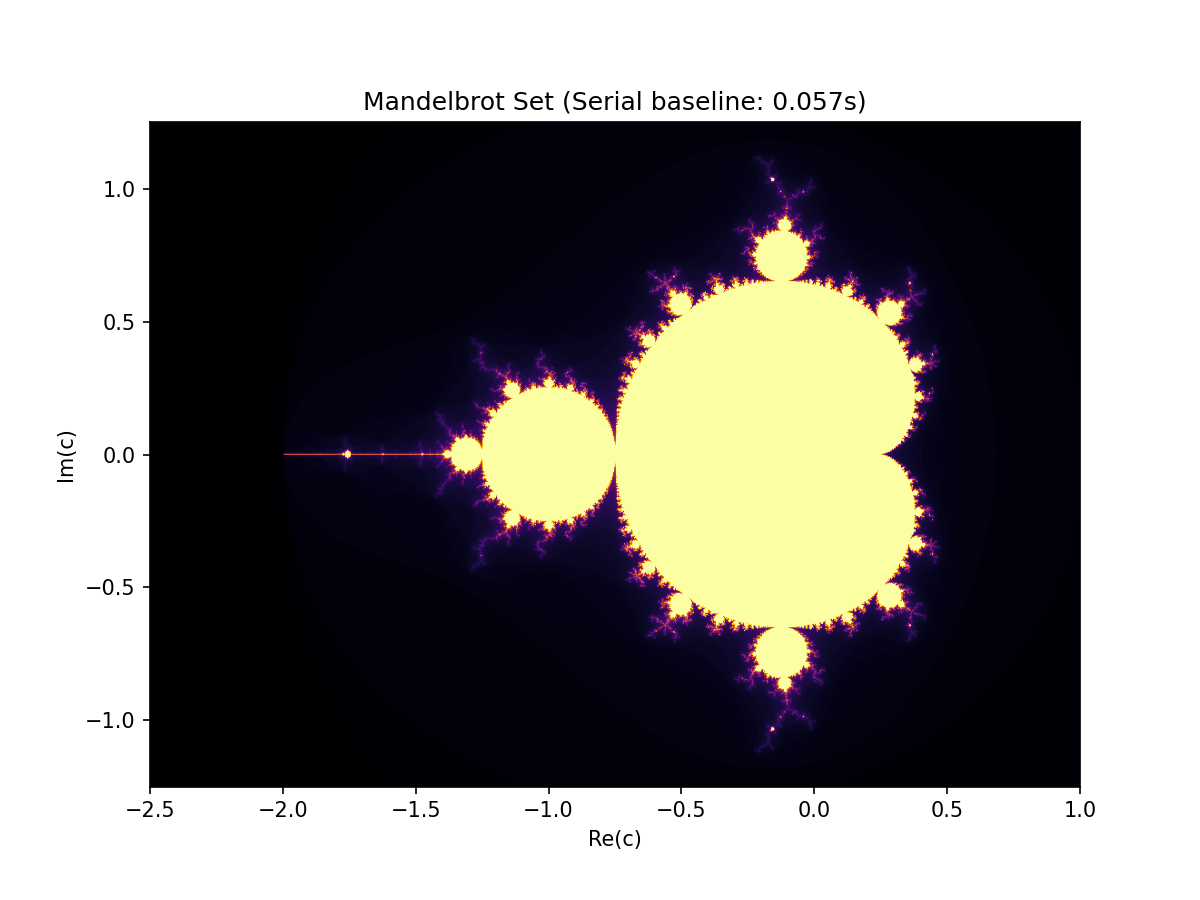
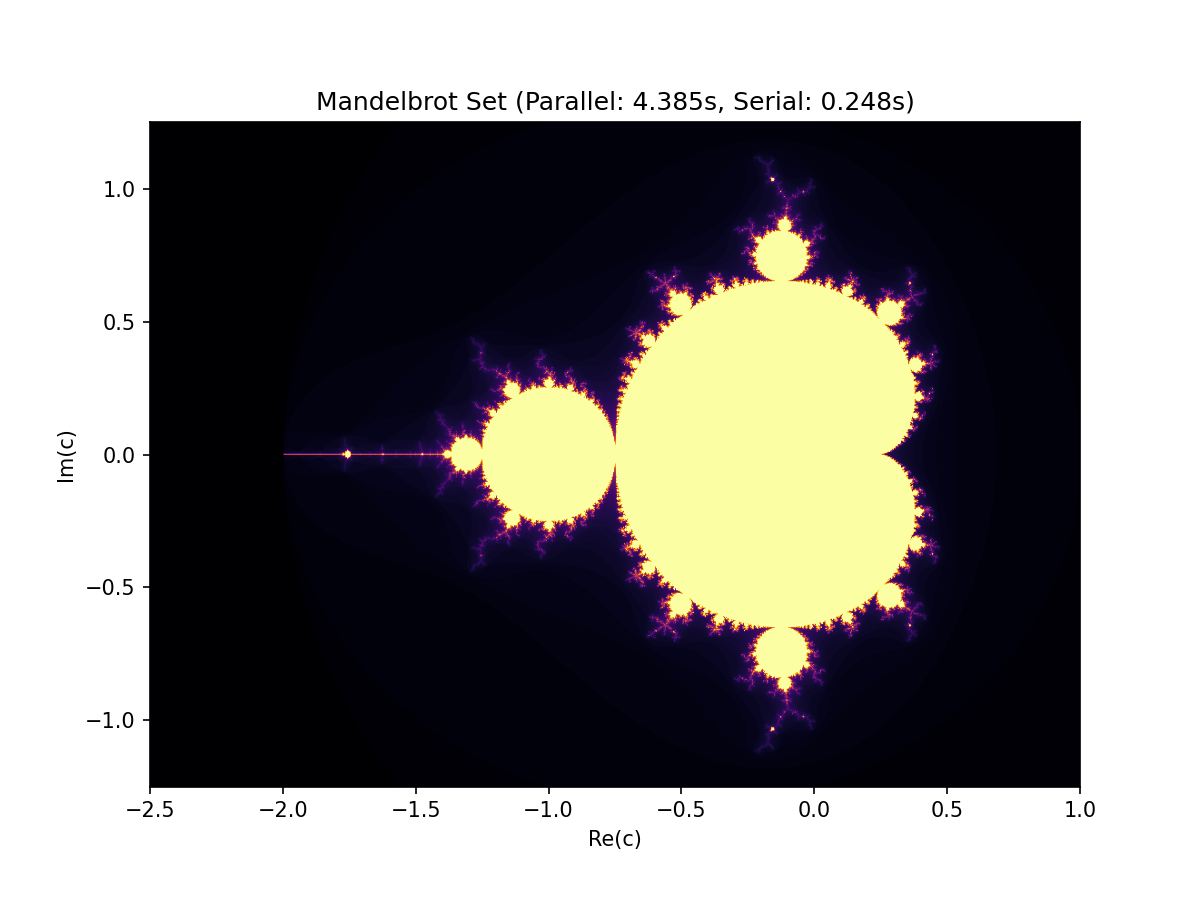
L08

Changed region(s): [[0.2467, 0.0933, 0.7708, 0.1244]]

diff --git a/L04 M1.py b/L04 M1.py
@@ -4,6 +4,12 @@ from multiprocessing import Pool
 import time, os, statistics, matplotlib.pyplot as plt
 from pathlib import Path
 
+from dask import delayed
+from dask.distributed import Client, LocalCluster
+import dask
+
+
+
 @njit
 def mandelbrot_pixel(c_real, c_imag, max_iter):
     z_real = z_imag = 0.0
@@ -33,100 +39,148 @@ def mandelbrot_serial(N, x_min, x_max, y_min, y_max, max_iter=100):
 def _worker(args):
     return mandelbrot_chunk(*args)
 
-def mandelbrot_parallel(N, x_min, x_max, y_min, y_max, max_iter=100, n_workers=4):
-    chunk_size = max(1, N // n_workers)
-    chunks, row = [], 0
-    while row < N:
-        row_end = min(row + chunk_size, N)
-        chunks.append((row, row_end, N, x_min, x_max, y_min, y_max, max_iter))
-        row = row_end
-
-    with Pool(processes=n_workers) as pool:
-        pool.map(_worker, chunks)  # un-timed warm-up: Numba JIT in workers
-        parts = pool.map(_worker, chunks)
-
+def mandelbrot_parallel(N, x_min, x_max, y_min, y_max, max_iter=100, n_workers=4, n_chunks=None, pool=None):
+    if n_chunks is None:
+        n_chunks = n_workers
+        
+    # Calculate chunks based on n_chunks (not chunk_size directly)
+    chunks = []
+    rows_per_chunk = N / n_chunks
+    
+    # Create exactly n_chunks chunks
+    for i in range(n_chunks):
+        row_start = int(i * rows_per_chunk)
+        row_end = int((i + 1) * rows_per_chunk) if i < n_chunks - 1 else N
+        if row_end > row_start:  # Ensure non-empty chunk
+            chunks.append((row_start, row_end, N, x_min, x_max, y_min, y_max, max_iter))
+    
+    if pool is not None:  # caller manages Pool; skip startup + warm-up
+        return np.vstack(pool.map(_worker, chunks))
+    
+    tiny = [(0, 8, 8, x_min, x_max, y_min, y_max, max_iter)]
+    with Pool(processes=n_workers) as p:
+        p.map(_worker, tiny)  # warm-up: load JIT cache in workers
+        parts = p.map(_worker, chunks)
     return np.vstack(parts)
 
+def mandelbrot_dask(N, x_min, x_max, y_min, y_max, max_iter=100, n_chunks=32):
+    chunk_size = max(1, N // n_chunks)
+    tasks, row = [], 0
+    while row < N:
+        row_end = min(row + chunk_size, N)
+        tasks.append(delayed(mandelbrot_chunk)(
+            row, row_end, N, x_min, x_max, y_min, y_max, max_iter))
+        row = row_end
+    parts = dask.compute(*tasks)
+    return np.vstack(parts)
 
-if __name__ == '__main__':
-    # Parameters
-    N = 1024
-    x_min, x_max = -2.5, 1.0
-    y_min, y_max = -1.25, 1.25
-    max_iter = 100
-    n_workers = 4
-    
-    print("=" * 50)
-    print("MANDELBROT PERFORMANCE COMPARISON")
-    print("=" * 50)
-    
-    # Run parallel version
-    print(f"\nRunning parallel version with {n_workers} workers...")
-    t0 = time.perf_counter()
-    parallel_result = mandelbrot_parallel(N, x_min, x_max, y_min, y_max, 
-                                          max_iter, n_workers=n_workers)
-    t_parallel = time.perf_counter() - t0
-    print(f"Parallel computation took: {t_parallel:.3f} seconds")
-    
-    # Run serial version
-    print("\nRunning serial version...")
-    t0 = time.perf_counter()
-    serial_result = mandelbrot_serial(N, x_min, x_max, y_min, y_max, max_iter)
-    t_serial = time.perf_counter() - t0
-    print(f"Serial computation took: {t_serial:.3f} seconds")
-    
-    
-    # Visualize the result (using parallel_result)
-    fig, ax = plt.subplots(figsize=(8, 6))
-    ax.imshow(parallel_result, extent=[-2.5, 1.0, -1.25, 1.25],
-              cmap='inferno', origin='lower', aspect='equal')
-    ax.set_xlabel('Re(c)')
-    ax.set_ylabel('Im(c)')
-    ax.set_title(f'Mandelbrot Set (Parallel: {t_parallel:.3f}s, Serial: {t_serial:.3f}s)')
-    out = Path(__file__).parent / 'mandelbrot.png'
-    plt.savefig(out, dpi=150)
-    print(f'\nSaved: {out}')
-    plt.show()
- 
-# --- MP2 M3: benchmark (in __main__ block) ---
-if __name__ == '__main__':
-    
+if __name__ == "__main__":
     N, max_iter = 1024, 100
+    n_workers = 8
     X_MIN, X_MAX, Y_MIN, Y_MAX = -2.5, 1.0, -1.25, 1.25
 
-    # Serial baseline (Numba already warm after M1 warm-up)
+    # Warm up JIT locally
+    mandelbrot_chunk(0, 8, 8, X_MIN, X_MAX, Y_MIN, Y_MAX, max_iter)
+
+    # Measure serial baseline (T₁) with 1 worker
+    cluster_serial = LocalCluster(n_workers=1, threads_per_worker=1)
+    client_serial = Client(cluster_serial)
+    
+    # Warm up worker
+    client_serial.run(lambda: mandelbrot_chunk(0, 8, 8, X_MIN, X_MAX, Y_MIN, Y_MAX, 10))
+    
     times = []
     for _ in range(3):
         t0 = time.perf_counter()
-        mandelbrot_serial(N, X_MIN, X_MAX, Y_MIN, Y_MAX, max_iter)
+        mandelbrot_dask(N, X_MIN, X_MAX, Y_MIN, Y_MAX, max_iter, n_chunks=32)
         times.append(time.perf_counter() - t0)
     t_serial = statistics.median(times)
+    print(f"Serial (1 worker): {t_serial:.3f}s")
+    
+    # Clean shutdown with delay
+    client_serial.close()
+    cluster_serial.close()
+    time.sleep(2)  # Give workers time to shut down
 
-    print(f"Serial time (median of 3): {t_serial:.3f}s")
-    print("\nParallel scaling:")
-    print("-" * 50)
-
-    for n_workers in range(1, os.cpu_count() + 1):
-        chunk_size = max(1, N // n_workers)
-        chunks, row = [], 0
-        while row < N:
-            end = min(row + chunk_size, N)
-            chunks.append((row, end, N, X_MIN, X_MAX, Y_MIN, Y_MAX, max_iter))
-            row = end
-        
-        with Pool(processes=n_workers) as pool:
-            # Warm-up: Numba JIT in all workers
-            pool.map(_worker, chunks)
-            
-            # Timed runs
-            times = []
-            for _ in range(3):
-                t0 = time.perf_counter()
-                np.vstack(pool.map(_worker, chunks))
-                times.append(time.perf_counter() - t0)
+    # Create cluster for sweep (keep open for all measurements)
+    cluster = LocalCluster(n_workers=n_workers, threads_per_worker=1)
+    client = Client(cluster)
+    
+    # Warm up all workers
+    client.run(lambda: mandelbrot_chunk(0, 8, 8, X_MIN, X_MAX, Y_MIN, Y_MAX, 10))
+    
+    # Sweep over chunk sizes
+    print("\nn_chunks | time (s) | vs 1x | LIF")
+    print("-" * 55)
+    
+    for n_chunks in [8, 16, 32, 64, 128, 256, 512]:
+        times = []
+        for _ in range(3):
+            t0 = time.perf_counter()
+            result = mandelbrot_dask(N, X_MIN, X_MAX, Y_MIN, Y_MAX, max_iter, n_chunks)
+            times.append(time.perf_counter() - t0)
         
         t_par = statistics.median(times)
         speedup = t_serial / t_par
-        efficiency = (speedup / n_workers) * 100
-        print(f"{n_workers:2d} workers: {t_par:.3f}s, speedup={speedup:.2f}x, eff={efficiency:.0f}%")
+        lif = n_workers * t_par / t_serial - 1
         
+        print(f"{n_chunks:8d} | {t_par:7.3f} | {speedup:6.1f}x | {lif:6.2f}")
+    
+    client.close()
+    cluster.close()
+    
+"""
+if __name__ == '__main__':
+    N, max_iter = 1024, 100
+    X_MIN, X_MAX, Y_MIN, Y_MAX = -2.5, 1.0, -1.25, 1.25
+    
+    cluster = LocalCluster(n_workers=8, threads_per_worker=1)
+    client = Client(cluster)
+    
+    client.run(lambda: mandelbrot_chunk(0, 8, 8, X_MIN, X_MAX, Y_MIN, Y_MAX, 10))  
+    times = []
+    for _ in range(3):
+        t0 = time.perf_counter()
+        result = mandelbrot_dask(N, X_MIN, X_MAX, Y_MIN, Y_MAX, max_iter)
+        times.append(time.perf_counter() - t0)
+    
+    print(f"Dask local (n_chunks=32): {statistics.median(times):.3f} s")
+    
+    client.close()
+    cluster.close()
+    
+
+
+if __name__ == "__main__":
+    N, max_iter = 1024, 100
+    n_workers = 8    # adjust to your L04 optimum
+    X_MIN, X_MAX, Y_MIN, Y_MAX = -2.5, 1.0, -1.25, 1.25
+
+    mandelbrot_chunk(0, 8, 8, X_MIN, X_MAX, Y_MIN, Y_MAX, max_iter)   # warm up JIT
+
+    # Serial baseline
+    times = []
+    for _ in range(3):
+        t0 = time.perf_counter()
+        mandelbrot_chunk(0, N, N, X_MIN, X_MAX, Y_MIN, Y_MAX, max_iter)
+        times.append(time.perf_counter() - t0)
+    t_serial = statistics.median(times)
+    print(f"Serial: {t_serial:.3f}s")
+
+    # Chunk-count sweep (M2): one Pool per config
+    tiny = [(0, 8, 8, X_MIN, X_MAX, Y_MIN, Y_MAX, max_iter)]
+    for mult in [1, 2, 4, 8, 16]:
+        n_chunks = mult * n_workers
+        with Pool(processes=n_workers) as pool:
+            pool.map(_worker, tiny)    # warm-up: load JIT cache in workers
+            times = []
+            for _ in range(3):
+                t0 = time.perf_counter()
+                mandelbrot_parallel(N, X_MIN, X_MAX, Y_MIN, Y_MAX, max_iter,
+                                    n_workers=n_workers, n_chunks=n_chunks, pool=pool)
+                times.append(time.perf_counter() - t0)
+            t_par = statistics.median(times)
+            lif = n_workers * t_par / t_serial - 1
+            print(f"{n_chunks:4d} chunks {t_par:.3f}s {t_serial/t_par:.1f}x LIF={lif:.2f}")
+"""
+            

diff --git a/MP3.py b/MP3.py
@@ -1,0 +1,37 @@
+#!/usr/bin/env python3
+# -*- coding: utf-8 -*-
+"""
+Created on Thu Apr 16 12:44:08 2026
+
+@author: phillycheese
+"""
+
+import numpy as np
+import matplotlib.pyplot as plt
+N, MAX_ITER, TAU = 512, 1000, 0.1
+x = np.linspace(-0.7530, -0.7490, N)
+y =np.linspace(0.0990, 0.1030, N)
+C64 = (x[np.newaxis, :] + 1j * y[:, np.newaxis]).astype(np.complex128) 
+C32 = C64.astype(np.complex64)
+z32 = np.zeros_like(C32) 
+z64 = np.zeros_like(C64)
+diverge = np.full((N, N), MAX_ITER, dtype=np.int32) 
+active = np.ones((N, N), dtype=bool)
+np.linspace(-0.7530, -0.7490, N)
+np.linspace( 0.0990, 0.1030, N)
+
+
+for k in range(MAX_ITER):
+    if not active.any(): break
+    z32[active] = z32[active]**2 + C32[active]
+    z64[active] = z64[active]**2 + C64[active]
+    diff = (np.abs(z32.real.astype(np.float64) - z64.real) + np.abs(z32.imag.astype(np.float64) - z64.imag)) 
+    newly = active & (diff > TAU)
+    diverge[newly] = k
+    active[newly] = False
+    
+
+plt.imshow(diverge, cmap='plasma', origin='lower', extent=[-0.7530, -0.7490, 0.0990, 0.1030])
+plt.colorbar(label='First divergence iteration') 
+plt.title(f'Trajectory divergence (tau={TAU})')
+plt.show()

diff --git a/mandelbrotmp2.py b/mandelbrotmp2.py
@@ -7,8 +7,16 @@ from pathlib import Path
 from dask import delayed
 from dask.distributed import Client, LocalCluster
 import dask
+"""
+VIGTGIT! VIGTGIT! VIGTGIT! VIGTGIT! VIGTGIT! VIGTGIT!
 
+alle implentation er blevet lavet i dette script, derfor er de også blevet videre bygget fra hinanden
 
+den seneste implementation er dask cluster, 
+for at finde tidligere version kan de ses i min git-hub rep history, https://github.com/Osten9000/mandelbrot-nsc/blob/47a4ee2da43d2a9db7b88cf5b39f43dc07156260/mandelbrotmp2.py
+
+VIGTIGT! VIGTGIT! VIGTGIT! VIGTGIT! VIGTGIT! VIGTGIT!
+"""
 
 @njit
 def mandelbrot_pixel(c_real, c_imag, max_iter):
@@ -75,7 +83,7 @@ def mandelbrot_dask(N, x_min, x_max, y_min, y_max, max_iter=100, n_chunks=32):
     return np.vstack(parts)
 
 if __name__ == "__main__":
-    N, max_iter = 8192, 100
+    N, max_iter = 1024, 100
     n_workers = 8
     X_MIN, X_MAX, Y_MIN, Y_MAX = -2.5, 1.0, -1.25, 1.25
 
